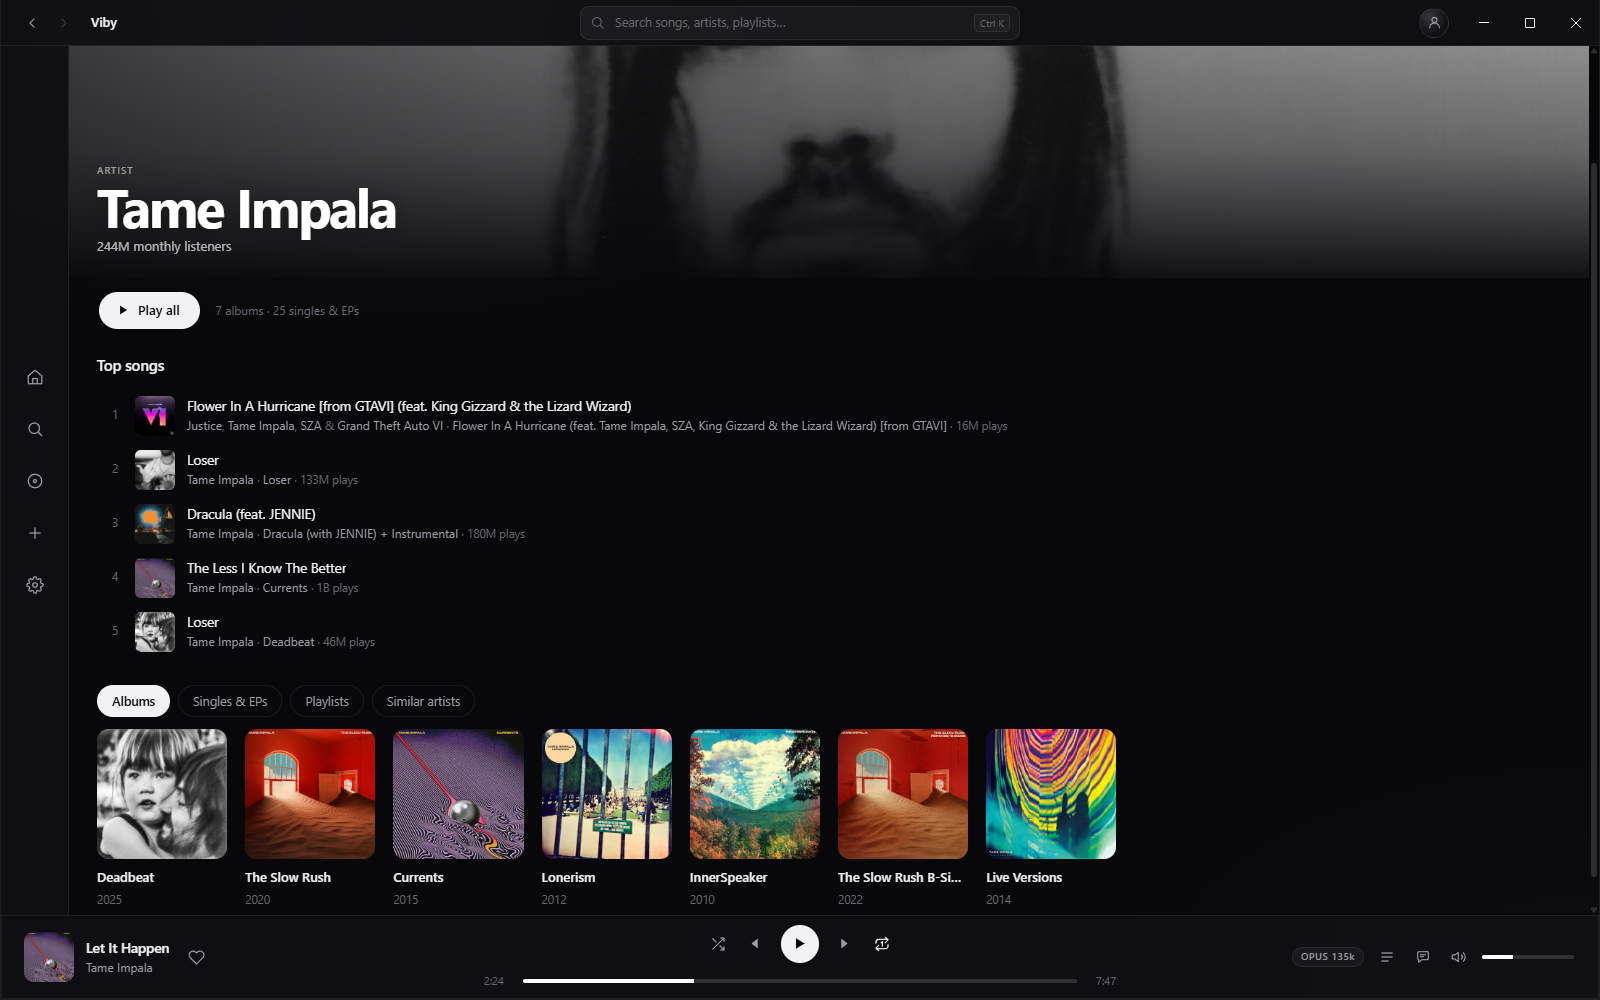
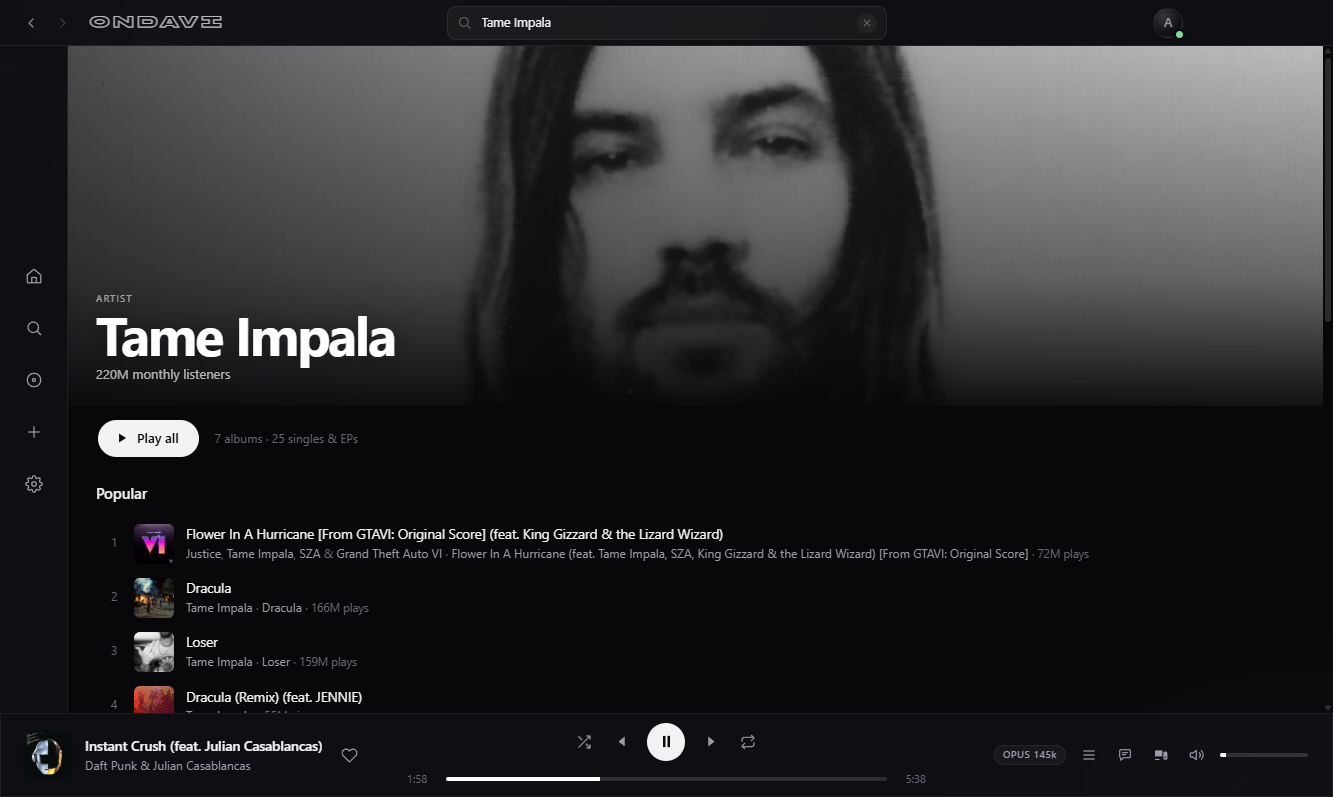
docs: refresh the Ondavi README showcase
Use the app icon and capture the current interface so the project page
matches Ondavi. Keep the installation copy focused on what readers need
and link to the existing macOS setup details.

diff --git a/README.md b/README.md
@@ -1,5 +1,5 @@
 <p align="center">
-  <img src="assets/icon-readme.png" width="84" alt="Ondavi" />
+  <img src="resources/icon.png" width="84" alt="Ondavi" />
 </p>
 
 <h1 align="center">Ondavi</h1>
@@ -18,8 +18,6 @@
   <a href="LICENSE"><img alt="License: Apache 2.0" src="https://img.shields.io/badge/license-Apache%202.0-111111?style=flat-square" /></a>
 </p>
 
-The app is now Ondavi. The repository and installer filenames still use Viby, and macOS keeps the `Viby.app` bundle and Keychain identity. Those names preserve existing installs, updates and signed-in sessions.
-
 Ondavi opens on your music, not on an offer. No sign-up screen, no ad before the first song, no upsell sitting between you and play. Search for something, press play, and the app gets out of the way.
 
 It plays from YouTube Music's catalogue, so almost anything you look for is there. The player, the library, the lyrics and the downloads are built here — which is why none of them are trying to sell you anything, and why what you keep stays on your machine.
@@ -35,15 +33,9 @@ It plays from YouTube Music's catalogue, so almost anything you look for is ther
 
 Download the latest release with the badges above: **Apple silicon** for an M-series Mac, **Intel** for an older one, **x64** for Windows 10 or 11. Every version and its notes are on the [releases page](https://github.com/Rei-SU/Viby/releases).
 
-**macOS.** Drag `Viby.app` to Applications (it appears as Ondavi), then remove the download quarantine once:
+**macOS.** Open the disk image and drag the app into Applications. See the [macOS first-launch instructions](CONTRIBUTING.md#releases) if Gatekeeper blocks it.
 
-```bash
-xattr -dr com.apple.quarantine /Applications/Viby.app
-```
-
-The build is ad-hoc signed but not notarized. Gatekeeper may report it as damaged; that is Gatekeeper's decision, not a corrupt download. Ondavi checks for updates and opens the matching DMG, because an ad-hoc-signed app cannot replace itself in place.
-
-**Windows.** Download `Viby-windows-x64.exe`; the app appears as Ondavi. The installer is per-user and needs no administrator password. Updates download, install in place and reopen Ondavi.
+**Windows.** Run the installer. It installs for your user account without administrator access.
 
 ## What it does
 
@@ -63,8 +55,8 @@ The build is ad-hoc signed but not notarized. Gatekeeper may report it as damage
 ## A closer look
 
 <p align="center">
-  <img src="docs/screenshots/search.png" width="49%" alt="Search results for Tame Impala with a top result, songs and artists" />
-  <img src="docs/screenshots/artist.png" width="49%" alt="Tame Impala artist page with a banner, top songs and albums" />
+  <img src="docs/screenshots/search.png" width="49%" alt="Search results for Tame Impala with song results and category filters" />
+  <img src="docs/screenshots/artist.png" width="49%" alt="Tame Impala artist page with a banner and popular songs" />
 </p>
 <p align="center">
   <sub>Search across songs, albums, artists and playlists &nbsp;·&nbsp; Artist pages with real discographies</sub>
@@ -72,19 +64,11 @@ The build is ad-hoc signed but not notarized. Gatekeeper may report it as damage
 
 <p align="center">
   <img src="docs/screenshots/album.png" width="49%" alt="Daft Punk Discovery album page with its track list" />
-  <img src="docs/screenshots/lyrics.png" width="49%" alt="Synced lyrics docked beside Daft Punk's Discovery album page" />
+  <img src="docs/screenshots/lyrics.png" width="49%" alt="Synced lyrics for Digital Love beside Daft Punk's Discovery album page" />
 </p>
 <p align="center">
   <sub>Daft Punk's Discovery album and track list &nbsp;·&nbsp; Lyrics docked beside Discovery — click a line to jump</sub>
 </p>
-
-## Where it stands
-
-Ondavi is small on purpose and still early. The version badge at the top always shows the latest release; the [releases page](https://github.com/Rei-SU/Viby/releases) has the notes for each one.
-
-- **macOS builds are ad-hoc signed and not notarized.** The first launch needs the `xattr` command above. Updates download the matching DMG; in-place macOS updates wait for Developer ID signing.
-- **Windows updates install in place.** Windows 11 is verified on Electron 45. Windows 10 uses the same x64 build and is expected to behave the same; no separate hardware pass is planned.
-- **Optional sync, no telemetry.** Your liked songs, playlists, history and downloads are local files. An account is optional and only mirrors the library for your other devices; nothing is required to listen.
 
 ## What's next
 
@@ -96,8 +80,8 @@ Ondavi is small on purpose and still early. The version badge at the top always 
 Requirements: **Node.js 22.12+** (required by Electron 45), npm, and the platform you are building for.
 
 ```bash
-git clone https://github.com/Rei-SU/Viby.git
-cd Viby  # repository still uses its original name
+git clone https://github.com/Rei-SU/Viby.git ondavi
+cd ondavi
 npm install
 npm run runtime   # fetch the pinned playback runtime (once)
 npm run dev
